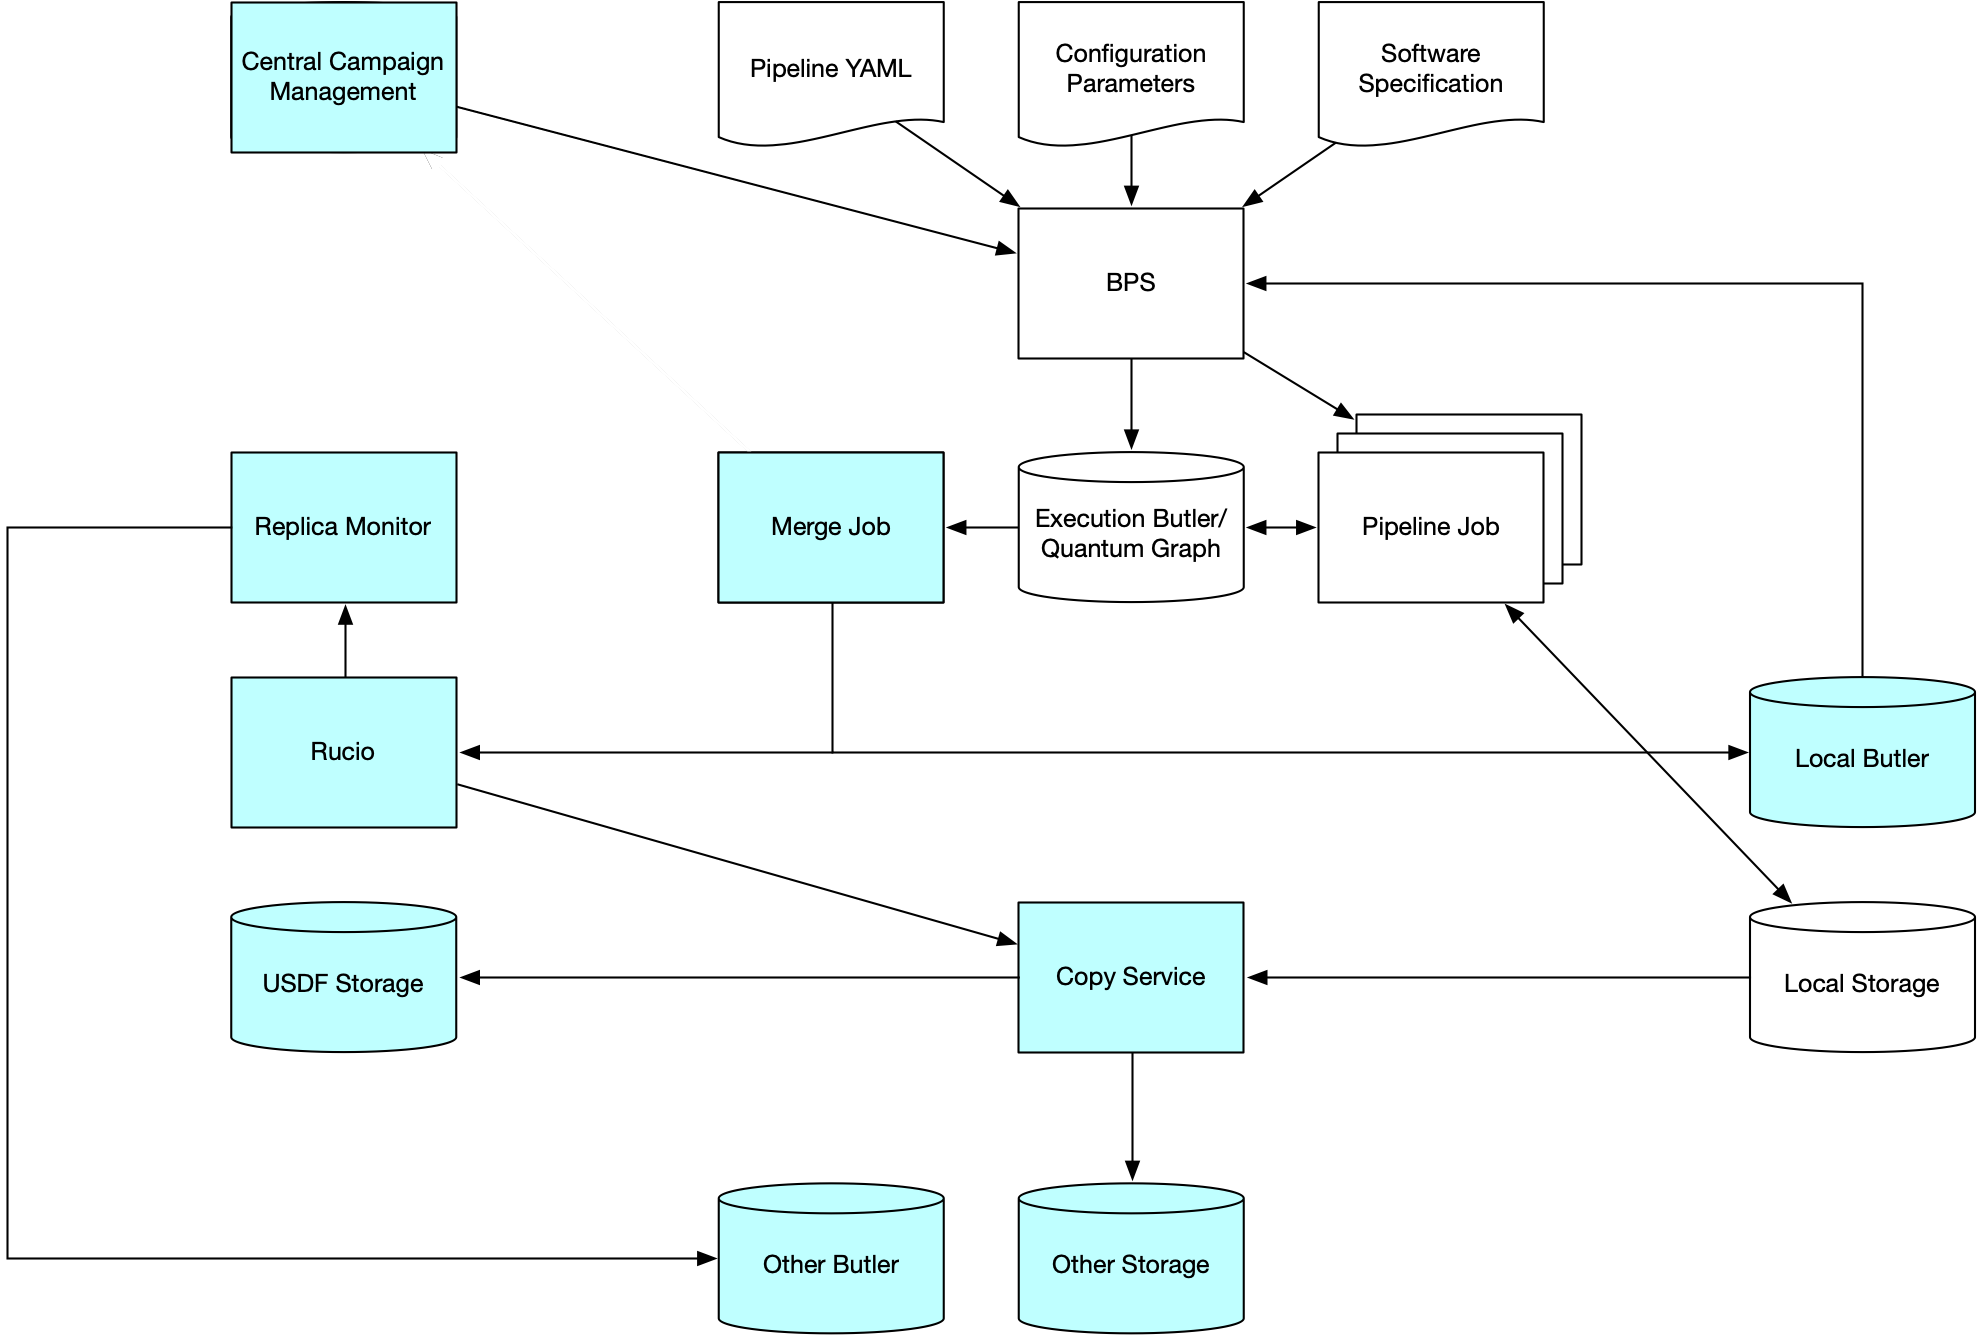
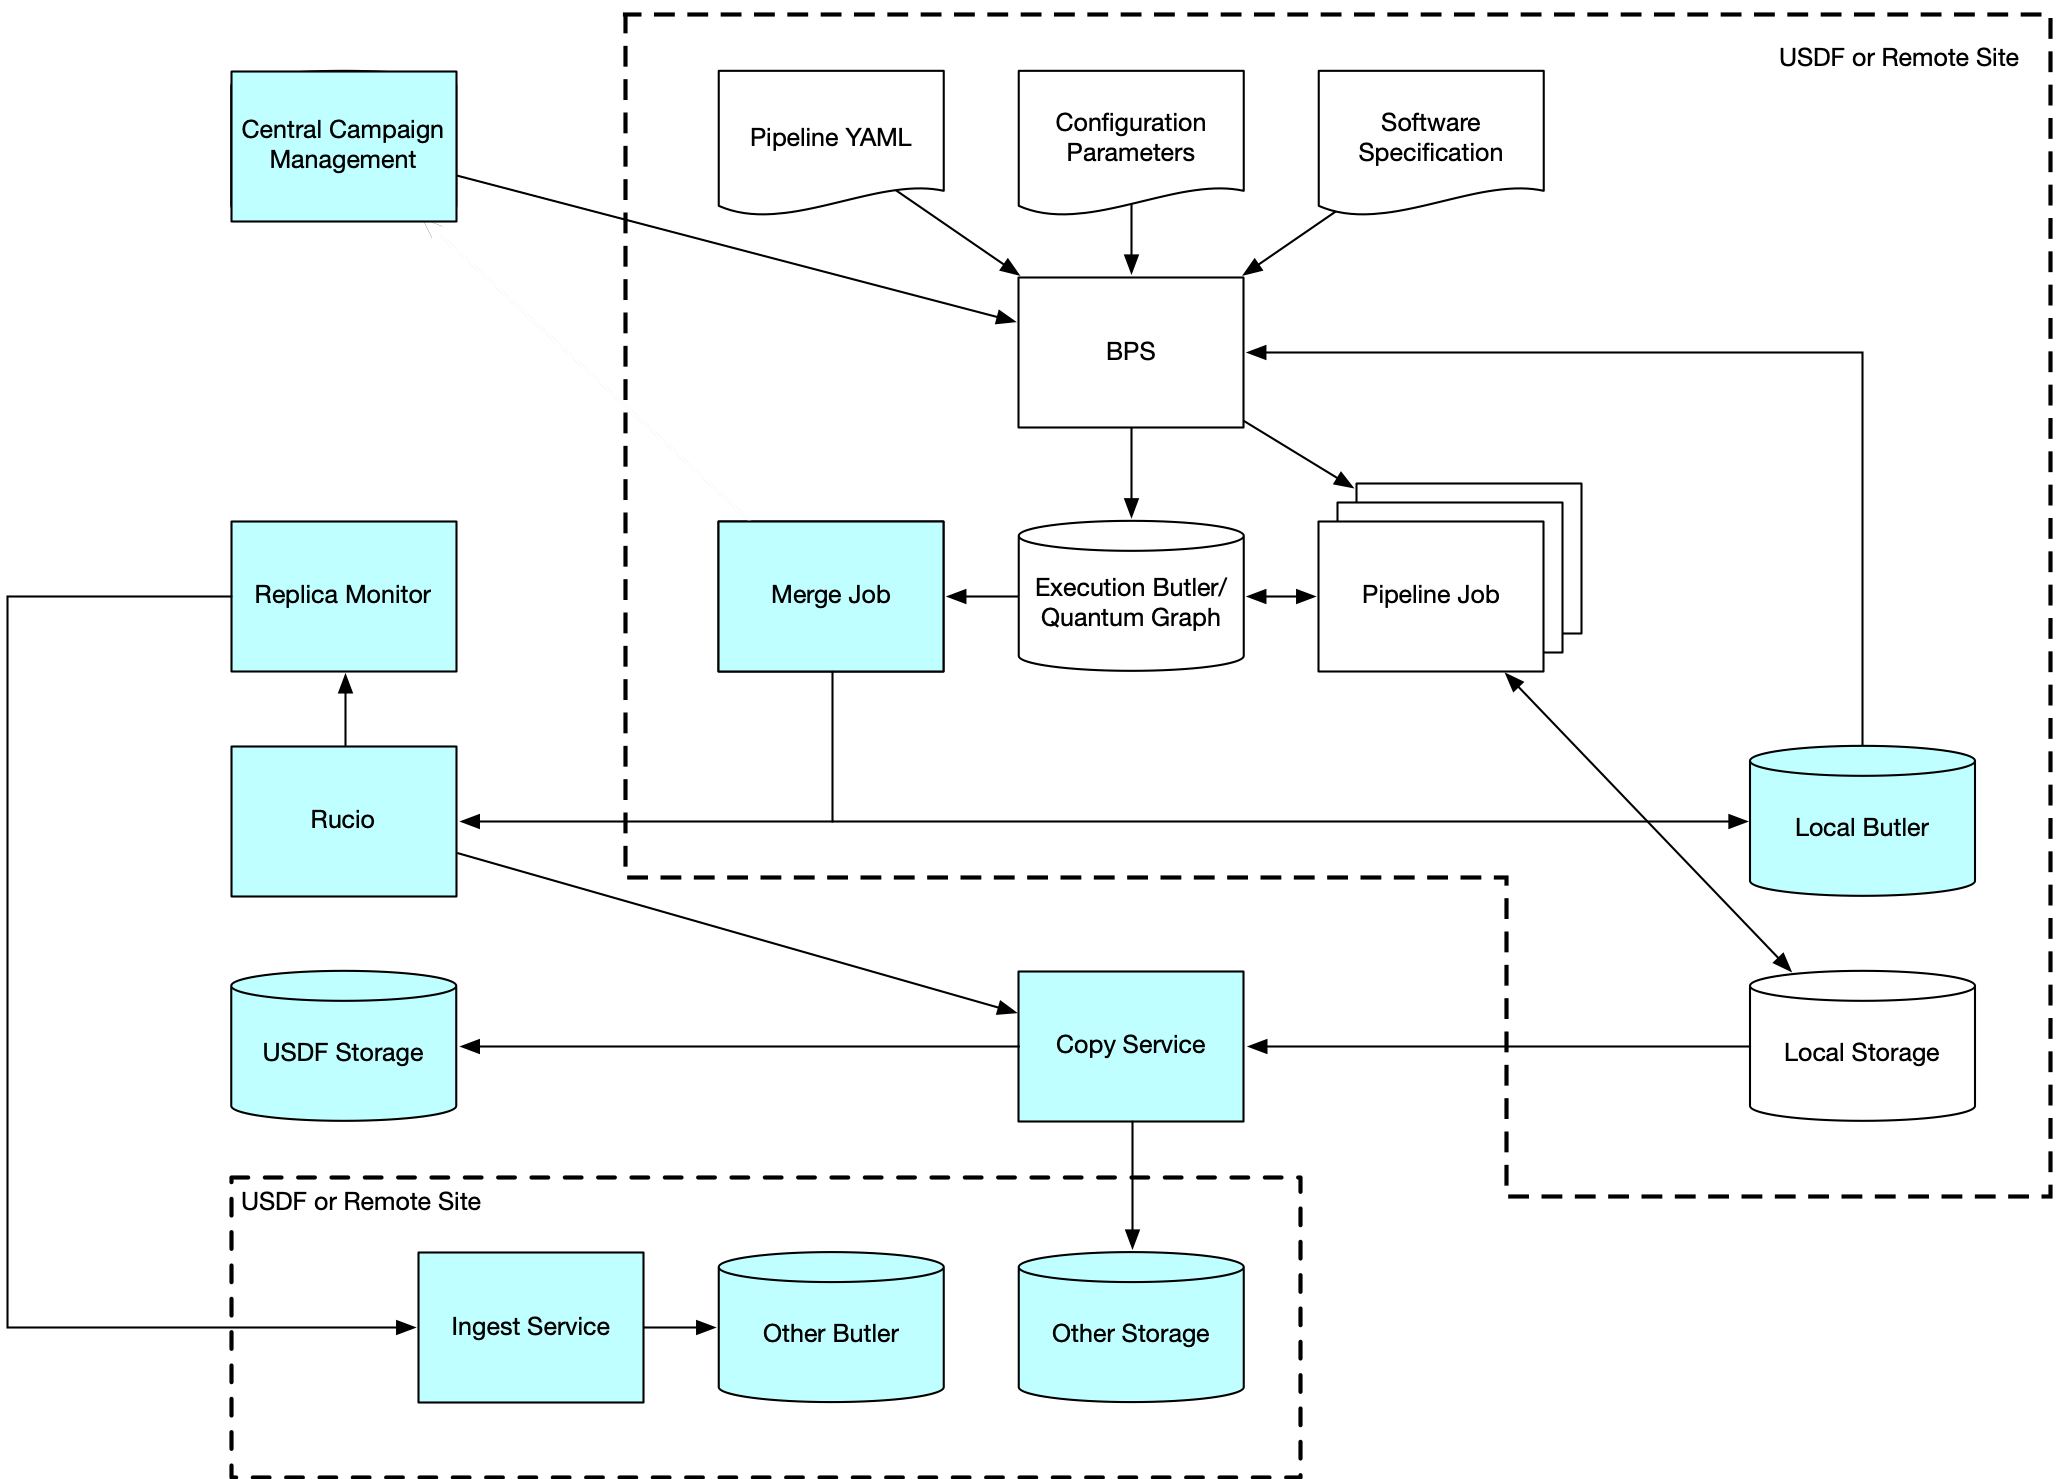
Improve diagram and caption.

diff --git a/index.rst b/index.rst
@@ -94,6 +94,9 @@ This will ensure that all jobs can be observed and tracked in one place.
     :name: fig-multi-site-local-bps
 
     Multi-Site Processing with Local BPS.
+    Blue items are added to the single-site processing diagram.
+    Items in the dotted boxes execute locally at processing sites.
+    Other items are centrally located at the USDF.
 
 After the workflow is complete, the merge job merges the EB/QG into the local Butler at the site as usual, but code will be added that registers datasets of particular dataset types with Rucio.
 The dataset type list is composed of all published data products as well as any temporary data products that need to be globally distributed or globally summarized.
